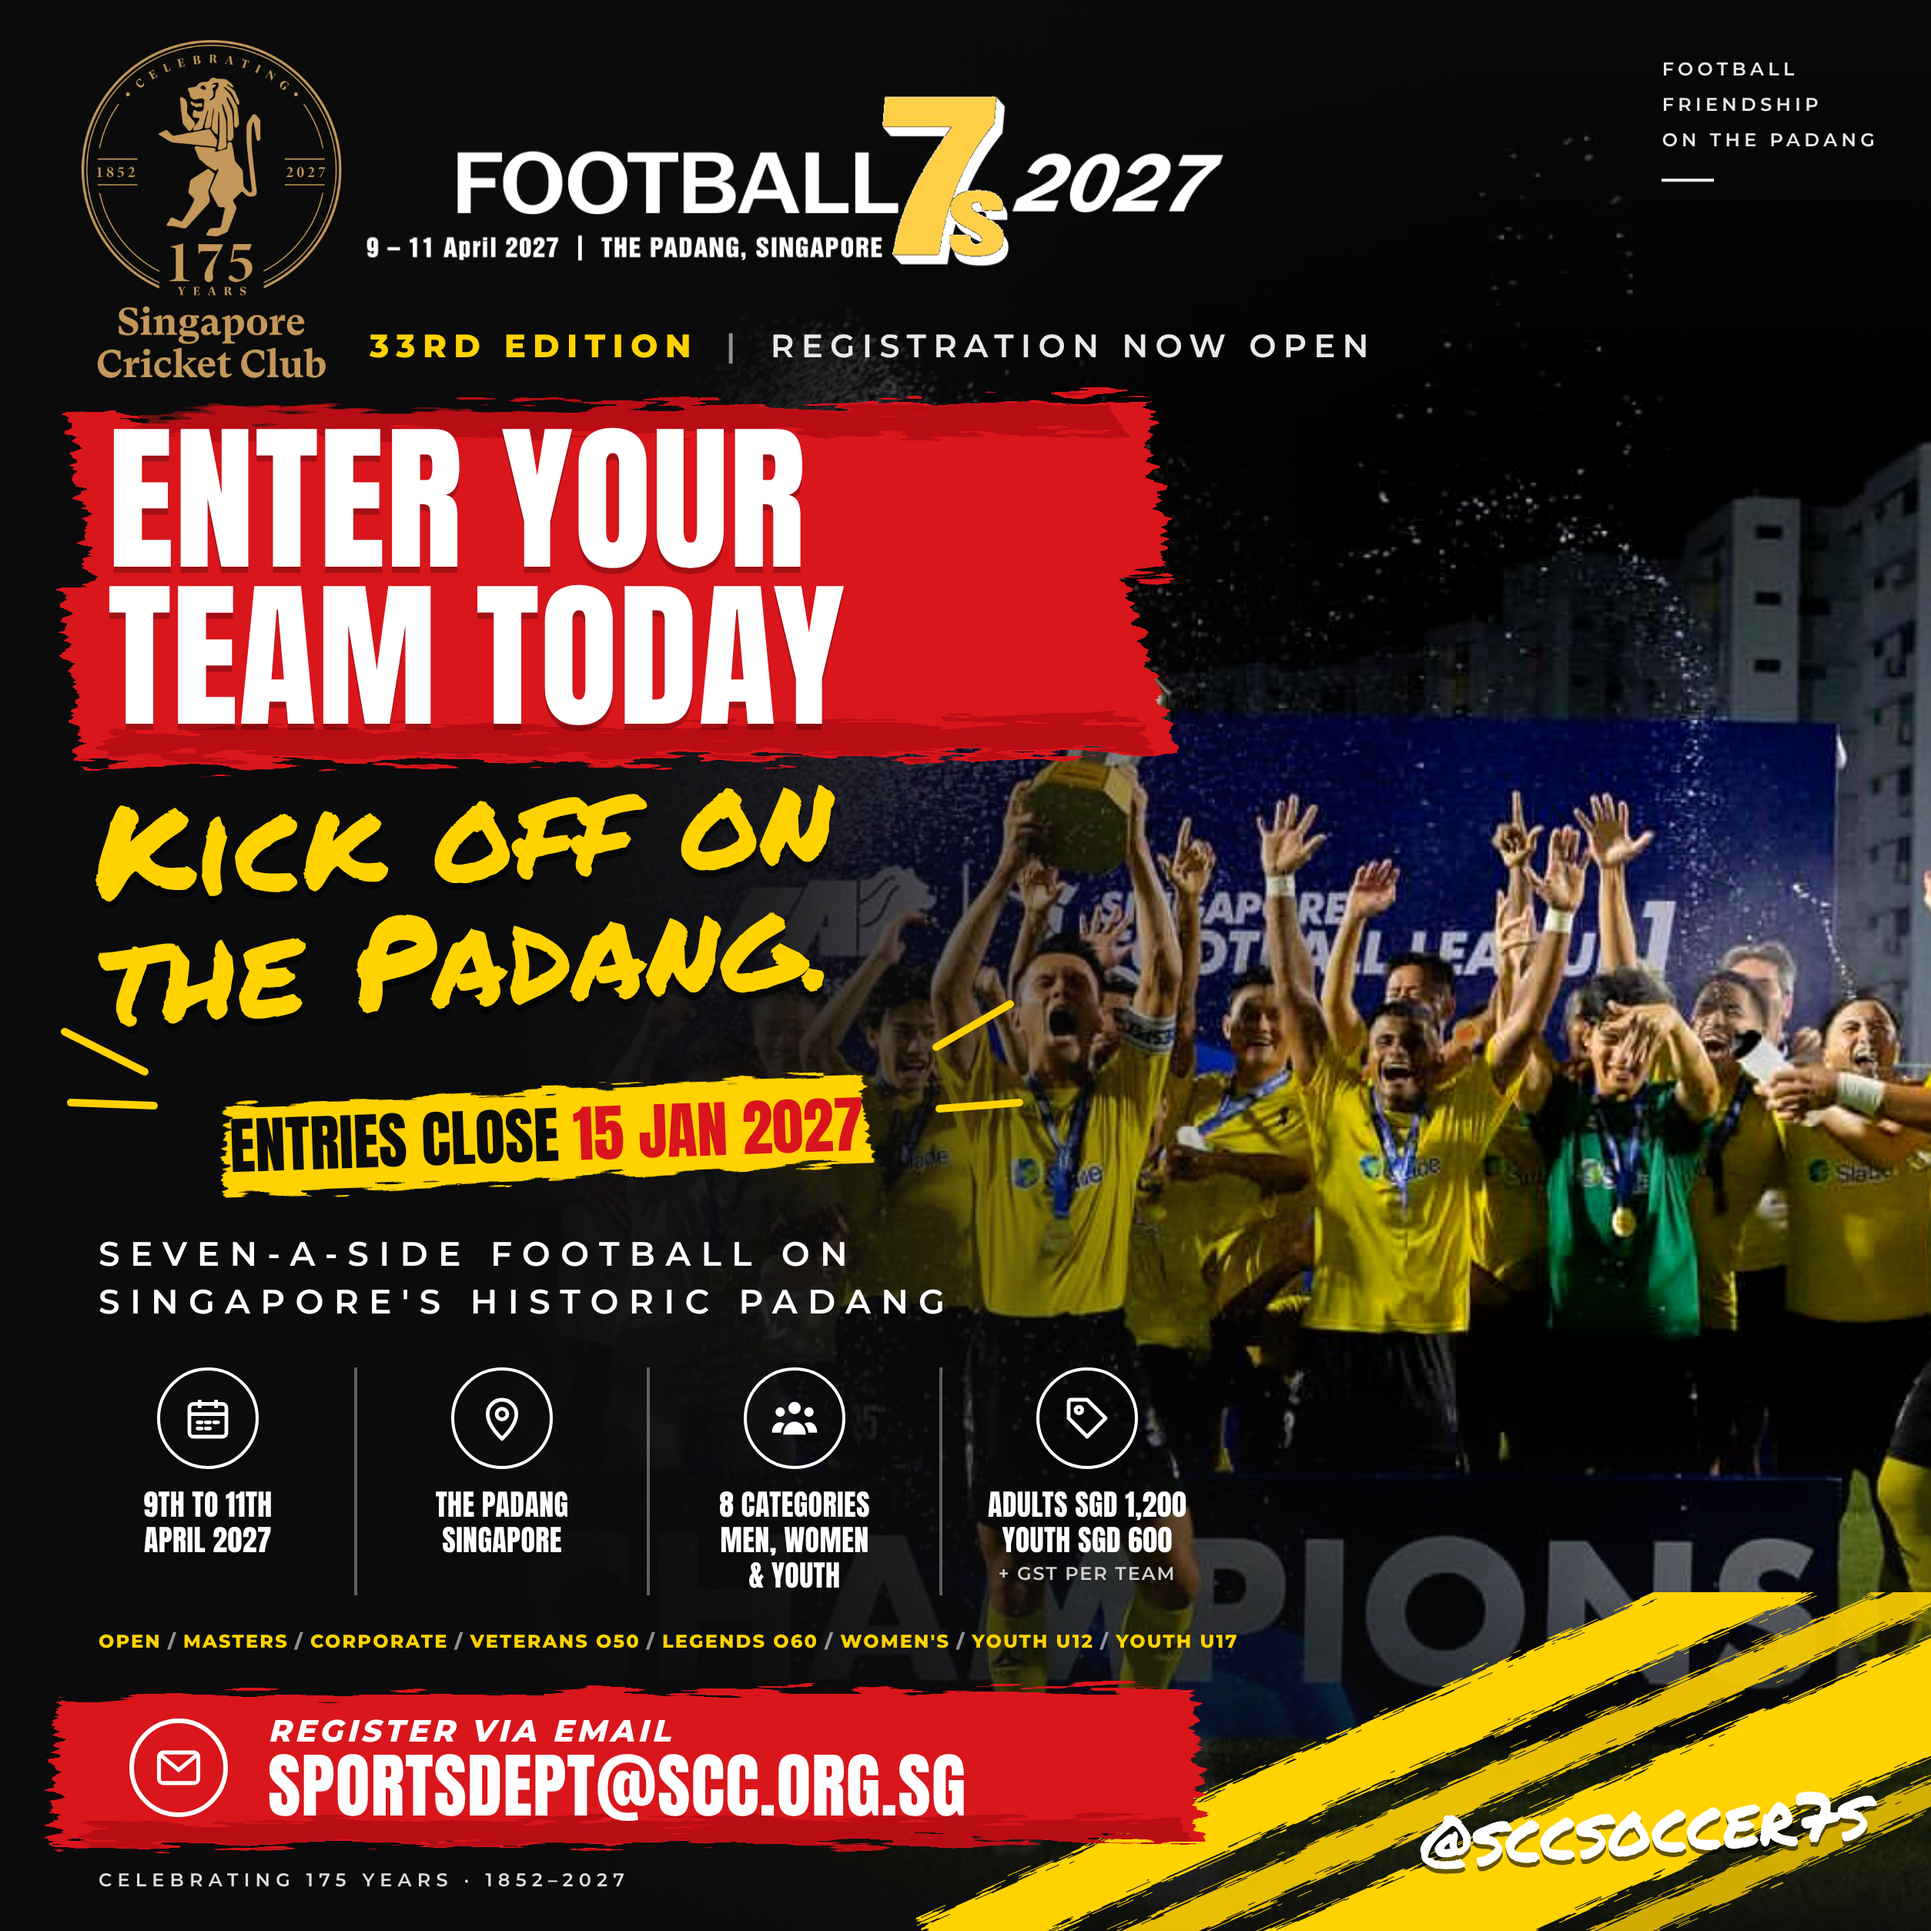
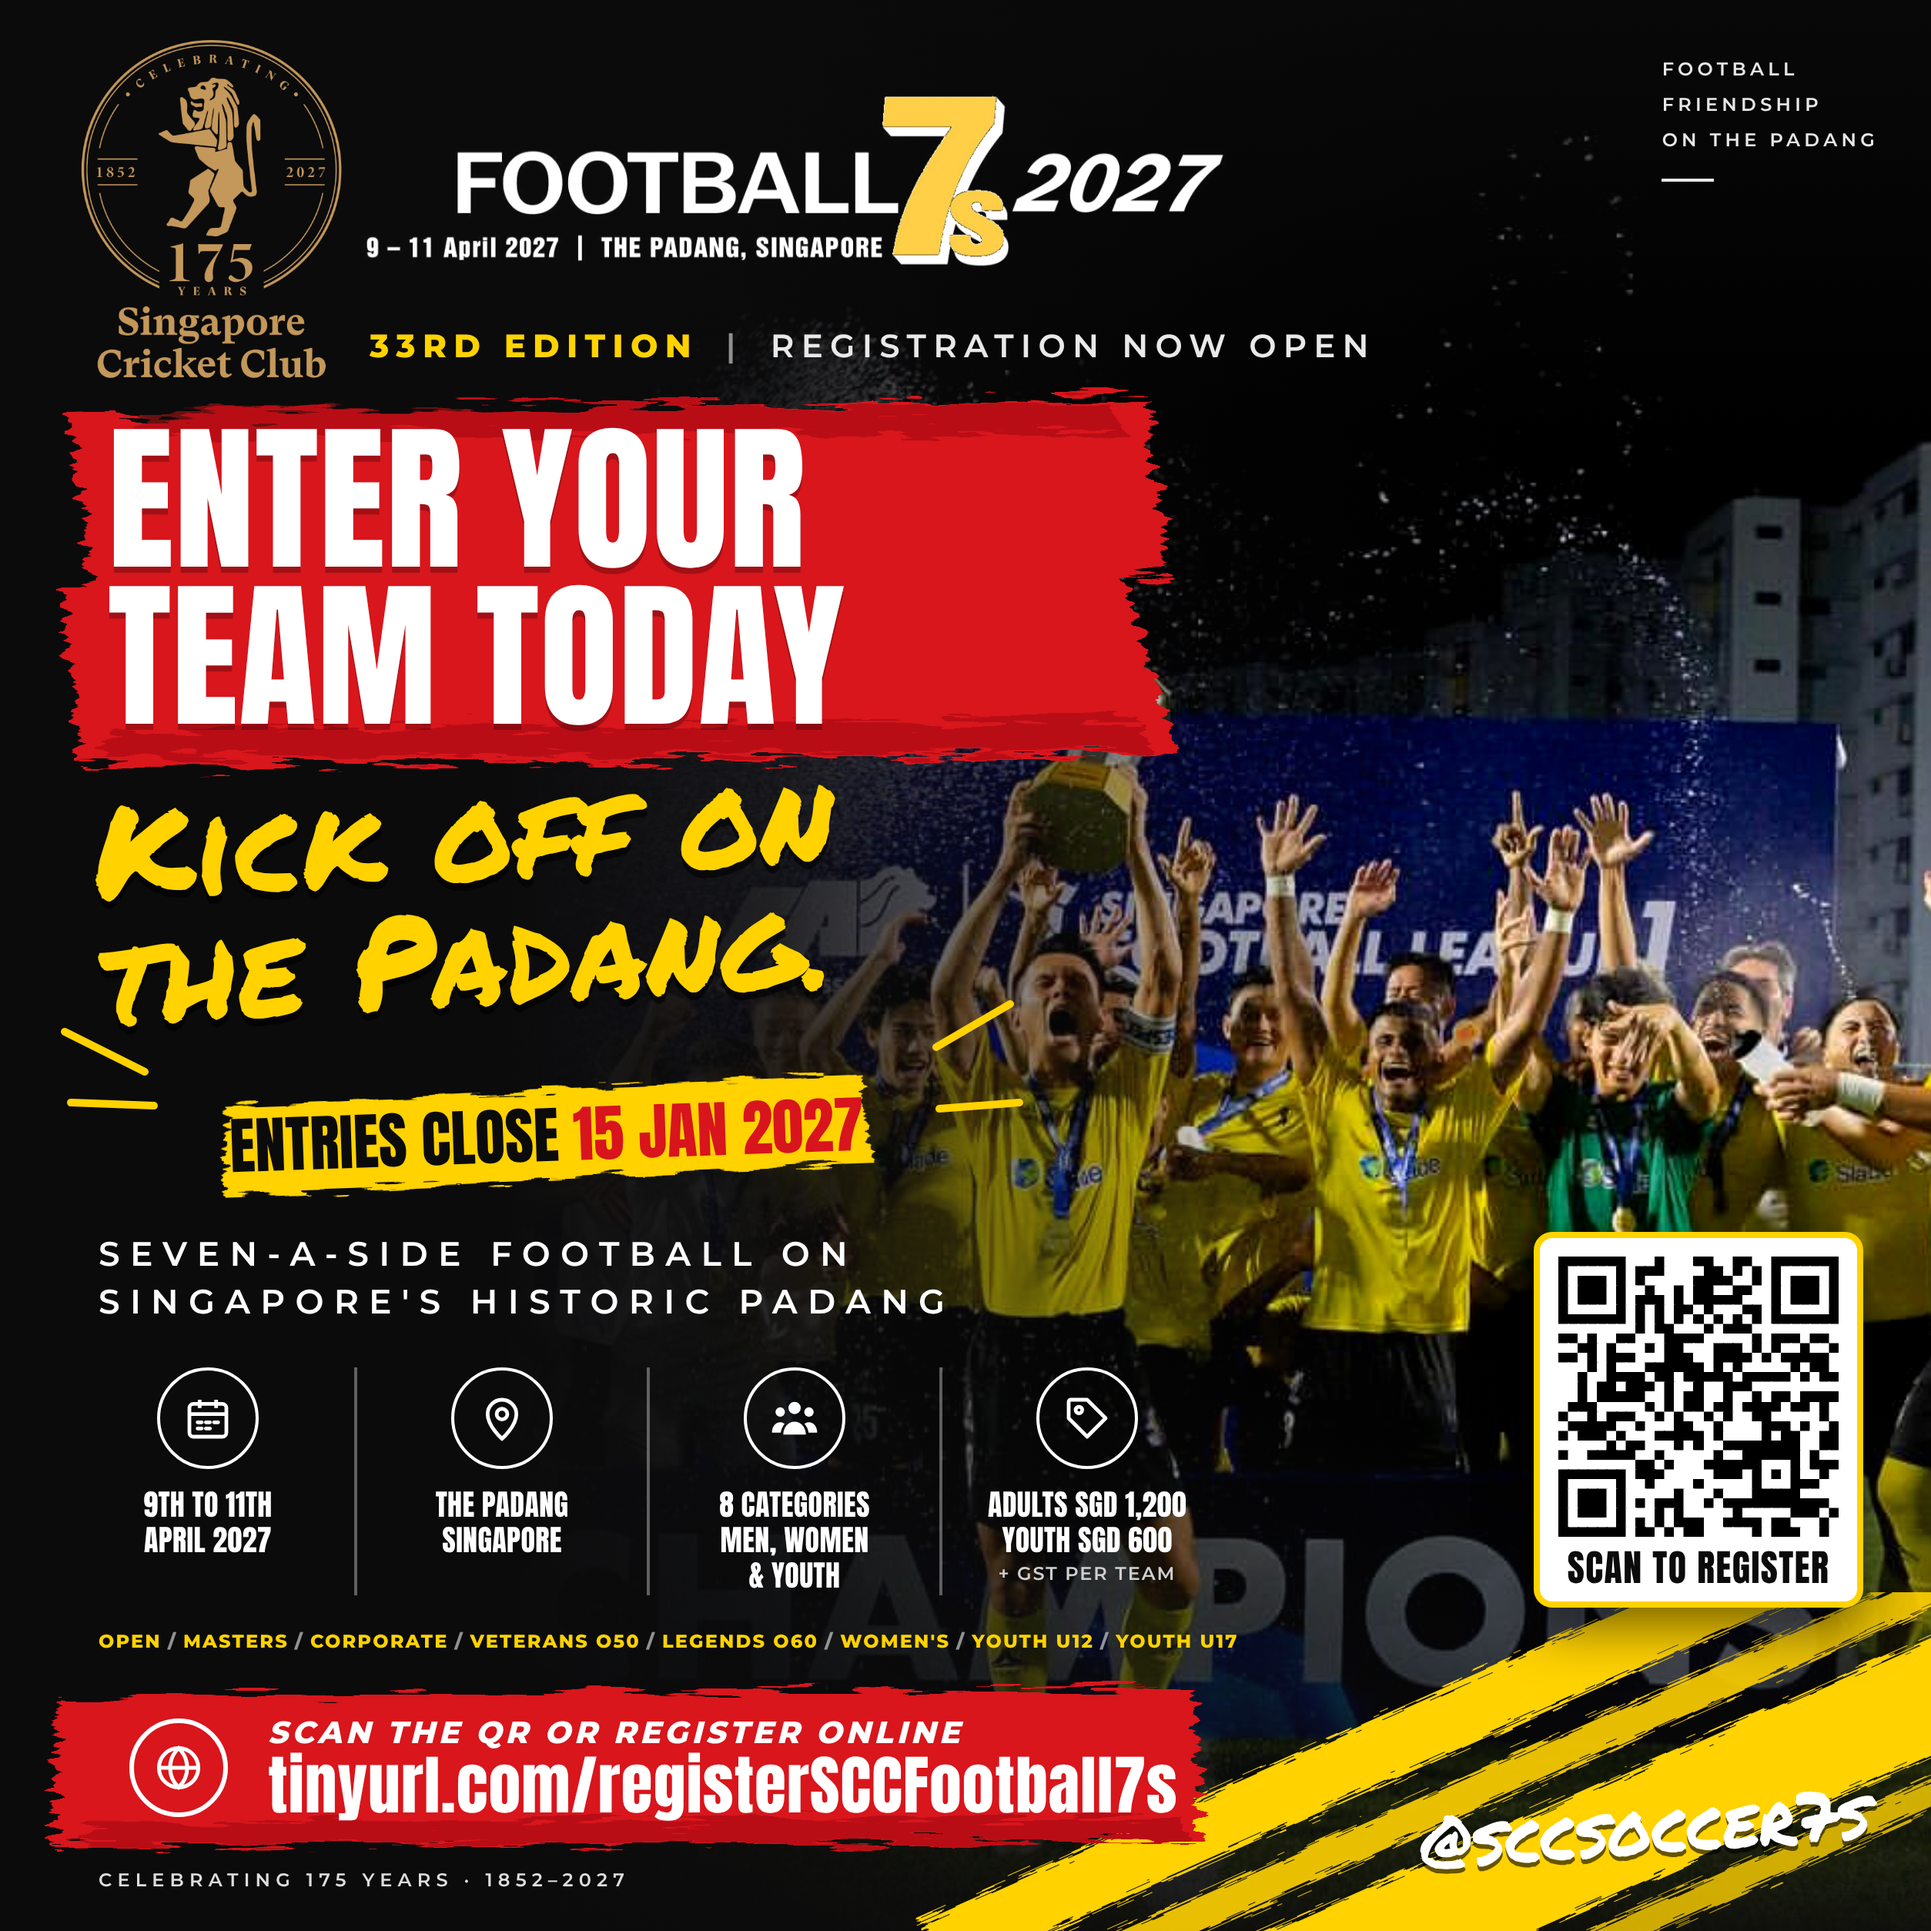
Add registration QR code and link to football 7s flyer
Replace the email call-to-action with the tinyurl registration link and
add a 'Scan to register' QR card.

Claude-Session: https://claude.ai/code/session_016pm3t6tswmyVrN2kPkBYa8

Changed region(s): [[0.7775, 0.622, 0.9952, 0.8708], [0.0622, 0.8708, 0.622, 0.9641]]

diff --git a/flyer/scc-football-7s-2027.html b/flyer/scc-football-7s-2027.html
@@ -116,7 +116,15 @@
   .cta .globe { width: 64px; height: 64px; border: 3px solid #fff; border-radius: 50%; display: grid; place-items: center; flex: none; }
   .cta .globe svg { width: 34px; height: 34px; }
   .cta .l1 { font-family: "Mont"; font-weight: 800; font-style: italic; font-size: 20px; letter-spacing: .12em; text-transform: uppercase; }
-  .cta .l2 { font-family: "Anton"; font-size: 46px; line-height: 1.05; letter-spacing: .01em; text-transform: uppercase; }
+  .cta .l2 { font-family: "Anton"; font-size: 42px; line-height: 1.1; letter-spacing: .01em; }
+
+  .qr {
+    right: 44px; top: 800px; width: 214px; background: #fff; border-radius: 12px; padding: 12px 12px 10px;
+    box-shadow: 0 12px 34px rgba(0,0,0,.55); text-align: center; color: var(--ink);
+    border: 4px solid var(--yellow);
+  }
+  .qr img { width: 100%; display: block; image-rendering: pixelated; }
+  .qr div { font-family: "Anton"; font-size: 24px; letter-spacing: .03em; margin-top: 8px; text-transform: uppercase; line-height: 1; }
 
   .foot {
     left: 64px; bottom: 26px; font-weight: 600; font-size: 12px; letter-spacing: .3em; color: #dedede;
@@ -233,14 +241,19 @@
       </g>
     </svg>
     <div class="txt">
-      <div class="globe"><svg viewBox="0 0 24 24" fill="none" stroke="#fff" stroke-width="1.8"><rect x="3" y="5" width="18" height="14" rx="2"/><path d="m3.5 6 8.5 7 8.5-7"/></svg></div>
+      <div class="globe"><svg viewBox="0 0 24 24" fill="none" stroke="#fff" stroke-width="1.8"><circle cx="12" cy="12" r="9"/><path d="M3 12h18M12 3c2.6 2.5 3.9 5.5 3.9 9s-1.3 6.5-3.9 9c-2.6-2.5-3.9-5.5-3.9-9S9.4 5.5 12 3Z"/></svg></div>
       <div>
-        <div class="l1">Register via email</div>
-        <div class="l2">sportsdept@scc.org.sg</div>
+        <div class="l1">Scan the QR or register online</div>
+        <div class="l2">tinyurl.com/registerSCCFootball7s</div>
       </div>
     </div>
   </div>
 
+
+  <div class="abs qr">
+    <img src="assets/register-qr.png" alt="QR code linking to the SCC Football 7s 2027 registration form">
+    <div>Scan to register</div>
+  </div>
 
   <div class="abs foot">CELEBRATING 175 YEARS · 1852–2027</div>
   <div class="abs hash">@sccsoccer7s</div>
